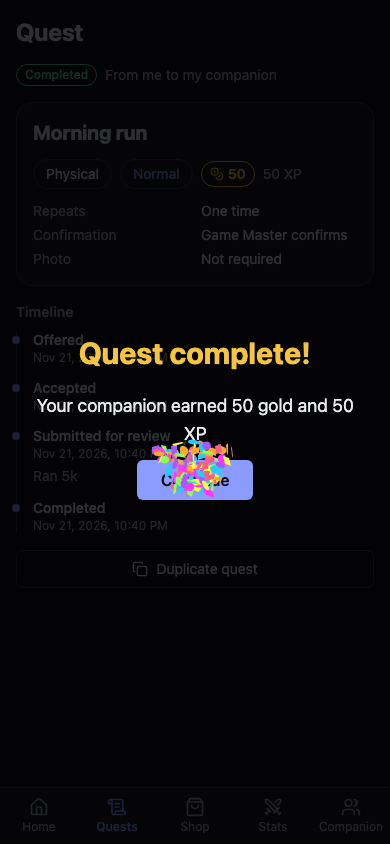
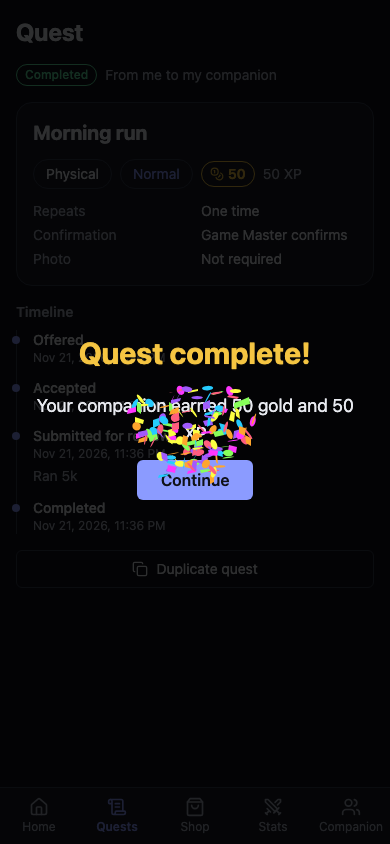
chore(S10): mark stage passing, update lead log

Changed region(s): [[0.3077, 0.4313, 0.6769, 0.5853], [0.4, 0.6161, 0.4308, 0.6469], [0.3385, 0.6161, 0.3692, 0.6469]]

diff --git a/docs/LEAD-LOG.md b/docs/LEAD-LOG.md
@@ -86,3 +86,5 @@ verbs: DISPATCH, REVIEW, MERGED, PARTIAL, FALLBACK, BLOCKED -->
 2026-11-21T23:18 REVIEW S10 -> stage-reviewer + stage-reviewer(opus,security; codex unavailable) (round 2, @69bafe6; only stage-reviewer runs suite: shared test DB)
 2026-11-21T23:19 REVIEW S10 stage-reviewer(opus,security) round 2: APPROVE (read-only; awaiting stage-reviewer)
 2026-11-21T23:22 REVIEW S10 stage-reviewer round 2: APPROVE
+2026-11-21T23:37 MERGED S10 (check-stage --mark passed on main; S01/S03-S09 recheck passed; 2 review rounds; codex unavailable -> opus security; lesson: parallel reviewers must not both run suites, shared telerpg_test)
+2026-11-21T23:37 DISPATCH S11 -> stage-worker(sonnet) (medium, normal, ui, shop UI P0)
